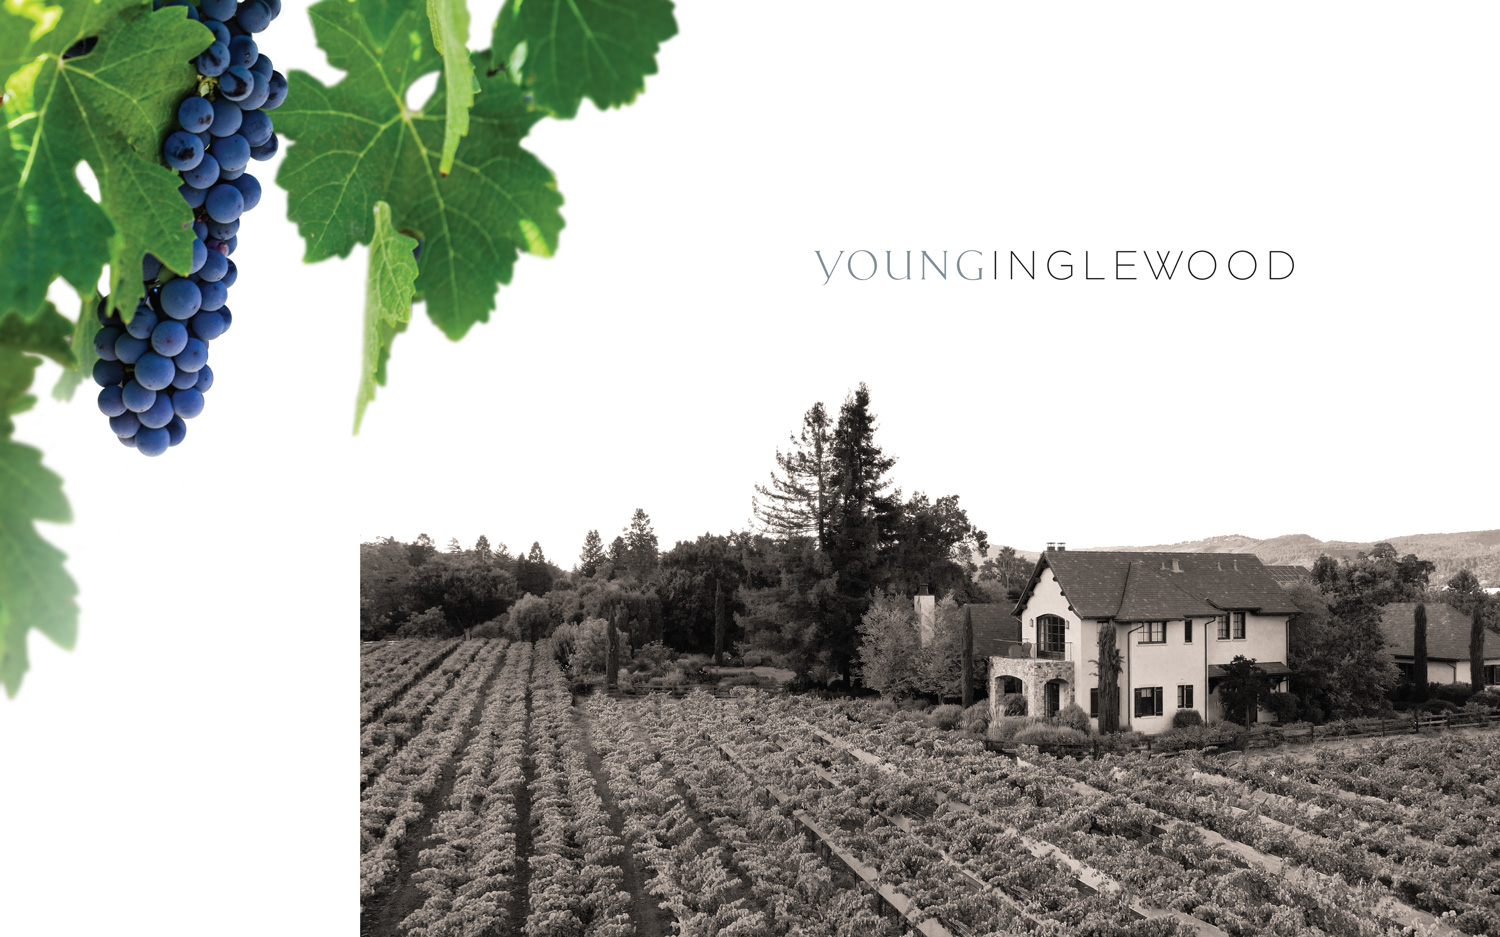
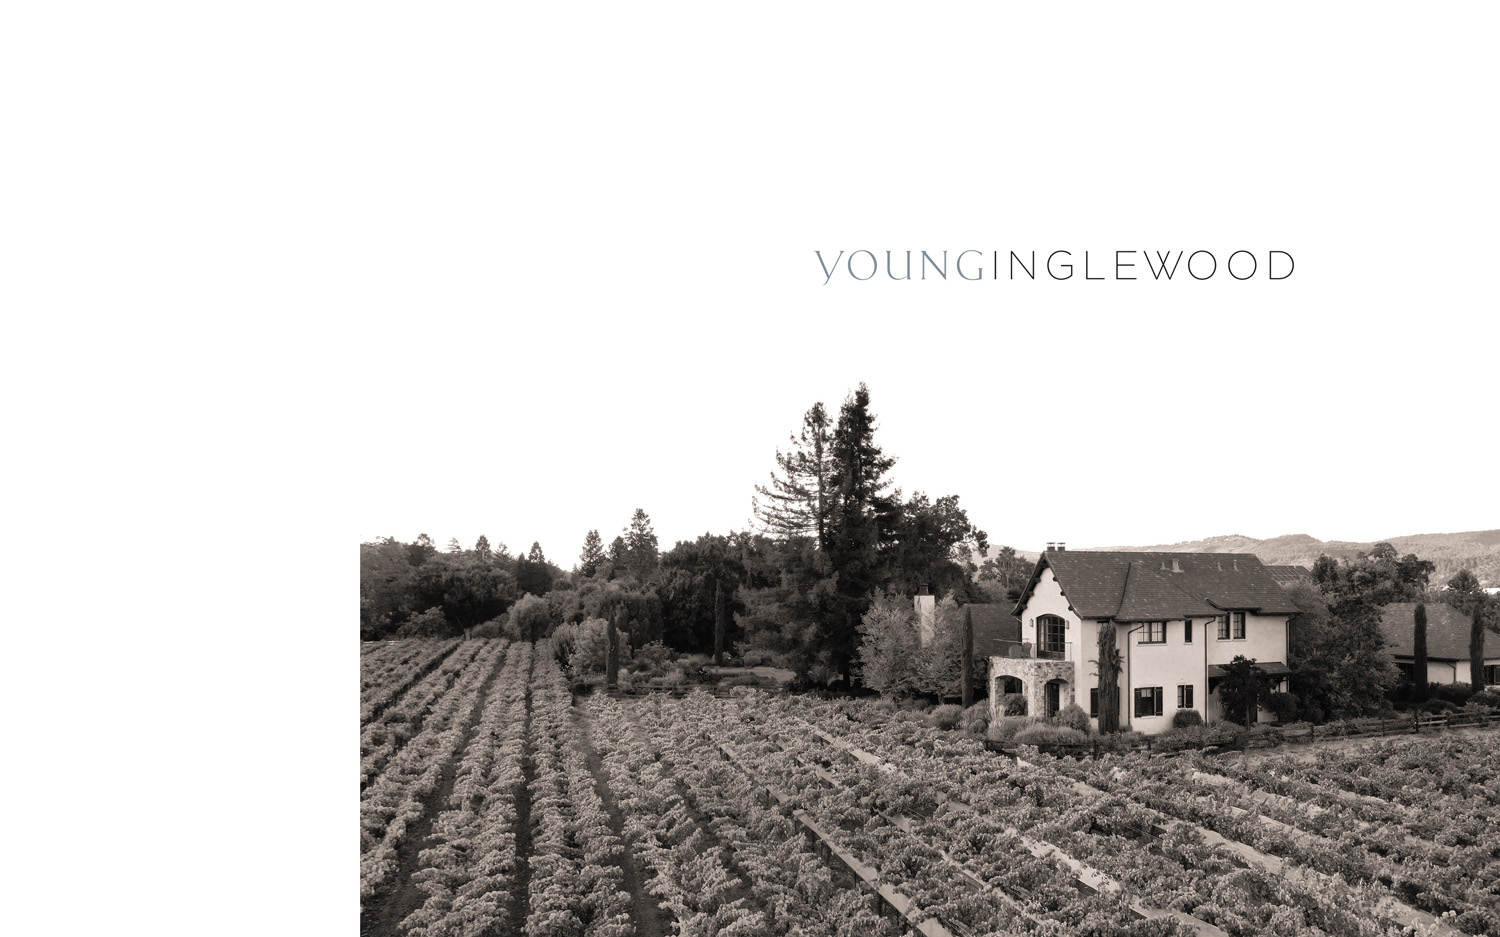
homepage solution

Changed region(s): [[0.0, 0.0, 0.46, 0.7428]]

diff --git a/components/layout.js b/components/layout.js
@@ -80,6 +80,7 @@ export default function Layout({ home, discover, wine, purchase, taste, membersh
           </div>
 
           <div className="desktop-only">
+          <div className="home-bg"></div>
             <div className="home-1">
               {/* silence */}
             </div>
@@ -112,40 +113,55 @@ export default function Layout({ home, discover, wine, purchase, taste, membersh
           <div className='navigation'>
             <nav>
               <a href="/discover" className={discover && 'active'}><span>Discover</span></a>
+
               <a href="/wine" className={wine && 'active'}><span>Wine</span></a>
+
               <a href="/collection/all/" className={purchase && 'active'} ><span>Purchase</span></a>
+
               <a href="/membership" className={membership && 'active'}><span>Membership</span></a>
+
               <a href="/taste" className={taste && 'active'}><span>Taste</span></a>
+
               <div id="c7-account"></div>
               <div className="subnavigation">
-                <div className="collections-nav">
+                <div className="collections-nav desktop-only">
                   {console.log(router.asPath)}
                   {console.log("data collections: ", collections)}
                   {collections && collections
                     .filter(collection => collection.metaData['store-menu'])
                     .map((collection, index) => {
                       return <a className={router.asPath === '/collection/' + collection.slug ? 'c7-btn active' : 'c7-btn'} key={index} href={'/collection/' + collection.slug}><span>{collection.title}</span></a>
+
                     }
                     )}
                 </div>
                 {account &&
-                  <div className="account-nav">
+                  <div className="account-nav desktop-only">
                     {/* {router.asPath != '/profile/login' ? */}
-                      <>
-                        {accountNavItems
-                          .map((navItem, index) => {
-                            return <a className={router.asPath === (navItem.url || navItem.url+'/') ? 'c7-btn active' : 'c7-btn'} key={index} href={navItem.url}><span>{navItem.title}</span></a>
-                          }
-                          )}
-                      </>
+                    <>
+                      {accountNavItems
+                        .map((navItem, index) => {
+                          return <a className={router.asPath === (navItem.url || navItem.url + '/') ? 'c7-btn active' : 'c7-btn'} key={index} href={navItem.url}><span>{navItem.title}</span></a>
 
-                      {/* :
+                        }
+                        )}
+                    </>
+
+                    {/* :
                       <></>
                     } */}
                   </div>
                 }
               </div>
             </nav>
+            <nav className="mobile-only">
+              <a href="/faq"><span>FAQ</span></a>
+              <a href="/contact"><span>Contact</span></a>
+              <a href="/profile/create-account"><span>Join</span></a>
+              <a href="/profile/account"><span>Manage your Account</span></a>
+              <a href="/credits"><span>Credits</span></a>
+            </nav>
+            <div className="social-links mobile-only"><a target="_blank" href="https://www.facebook.com/younginglewood"><svg viewBox="0 0 24 24" aria-hidden="true" focusable="false" fill="currentColor" xmlns="http://www.w3.org/2000/svg" className="StyledIconBase-ea9ulj-0 bsimgx"><path d="M13.397 20.997v-8.196h2.765l.411-3.209h-3.176V7.548c0-.926.258-1.56 1.587-1.56h1.684V3.127A22.336 22.336 0 0 0 14.201 3c-2.444 0-4.122 1.492-4.122 4.231v2.355H7.332v3.209h2.753v8.202h3.312z"></path></svg></a><a target="_blank" href="https://www.instagram.com/younginglewood"><svg viewBox="0 0 24 24" aria-hidden="true" focusable="false" fill="currentColor" xmlns="http://www.w3.org/2000/svg" className="StyledIconBase-ea9ulj-0 bsimgx"><path d="M11.999 7.377a4.623 4.623 0 1 0 0 9.248 4.623 4.623 0 0 0 0-9.248zm0 7.627a3.004 3.004 0 1 1 0-6.008 3.004 3.004 0 0 1 0 6.008z"></path><circle cx="16.806" cy="7.207" r="1.078"></circle><path d="M20.533 6.111A4.605 4.605 0 0 0 17.9 3.479a6.606 6.606 0 0 0-2.186-.42c-.963-.042-1.268-.054-3.71-.054s-2.755 0-3.71.054a6.554 6.554 0 0 0-2.184.42 4.6 4.6 0 0 0-2.633 2.632 6.585 6.585 0 0 0-.419 2.186c-.043.962-.056 1.267-.056 3.71 0 2.442 0 2.753.056 3.71.015.748.156 1.486.419 2.187a4.61 4.61 0 0 0 2.634 2.632 6.584 6.584 0 0 0 2.185.45c.963.042 1.268.055 3.71.055s2.755 0 3.71-.055a6.615 6.615 0 0 0 2.186-.419 4.613 4.613 0 0 0 2.633-2.633c.263-.7.404-1.438.419-2.186.043-.962.056-1.267.056-3.71s0-2.753-.056-3.71a6.581 6.581 0 0 0-.421-2.217zm-1.218 9.532a5.043 5.043 0 0 1-.311 1.688 2.987 2.987 0 0 1-1.712 1.711 4.985 4.985 0 0 1-1.67.311c-.95.044-1.218.055-3.654.055-2.438 0-2.687 0-3.655-.055a4.96 4.96 0 0 1-1.669-.311 2.985 2.985 0 0 1-1.719-1.711 5.08 5.08 0 0 1-.311-1.669c-.043-.95-.053-1.218-.053-3.654 0-2.437 0-2.686.053-3.655a5.038 5.038 0 0 1 .311-1.687c.305-.789.93-1.41 1.719-1.712a5.01 5.01 0 0 1 1.669-.311c.951-.043 1.218-.055 3.655-.055s2.687 0 3.654.055a4.96 4.96 0 0 1 1.67.311 2.991 2.991 0 0 1 1.712 1.712 5.08 5.08 0 0 1 .311 1.669c.043.951.054 1.218.054 3.655 0 2.436 0 2.698-.043 3.654h-.011z"></path></svg></a><a target="_blank" href="https://twitter.com/YIVWine"><svg viewBox="0 0 24 24" aria-hidden="true" focusable="false" fill="currentColor" xmlns="http://www.w3.org/2000/svg" className="StyledIconBase-ea9ulj-0 bsimgx"><path d="M19.633 7.997c.013.175.013.349.013.523 0 5.325-4.053 11.461-11.46 11.461-2.282 0-4.402-.661-6.186-1.809.324.037.636.05.973.05a8.07 8.07 0 0 0 5.001-1.721 4.036 4.036 0 0 1-3.767-2.793c.249.037.499.062.761.062.361 0 .724-.05 1.061-.137a4.027 4.027 0 0 1-3.23-3.953v-.05c.537.299 1.16.486 1.82.511a4.022 4.022 0 0 1-1.796-3.354c0-.748.199-1.434.548-2.032a11.457 11.457 0 0 0 8.306 4.215c-.062-.3-.1-.611-.1-.923a4.026 4.026 0 0 1 4.028-4.028c1.16 0 2.207.486 2.943 1.272a7.957 7.957 0 0 0 2.556-.973 4.02 4.02 0 0 1-1.771 2.22 8.073 8.073 0 0 0 2.319-.624 8.645 8.645 0 0 1-2.019 2.083z"></path></svg></a></div>
           </div>
           <div id="c7-cart"></div>
         </div>
@@ -165,10 +181,15 @@ export default function Layout({ home, discover, wine, purchase, taste, membersh
           <div className='navigation'>
             <nav>
               <a href="/faq" className={faq && 'active'}><span>FAQ</span></a>
+
               <a href="/contact" className={contact && 'active'}><span>Contact</span></a>
+
               <a href="/profile/create-account" className={join && 'active'}><span>Join</span></a>
+
               <a href="/profile/account" className={account && 'active'}><span>Manage your Account</span></a>
+
               <a href="/credits" className={credits && 'active'}><span>Credits</span></a>
+
             </nav>
           </div>
 

diff --git a/styles/globals.css b/styles/globals.css
@@ -141,6 +141,20 @@ img {
     position: absolute;
     opacity: 0;
   }
+  .home-bg {
+    background-image: url(/images/home-bg.png);
+    background-size: cover;
+    background-repeat: no-repeat;
+    aspect-ratio: 2/1;
+    width: 47rem;
+    position: absolute;
+    left: 0;
+    top: 0;
+    z-index: 3;
+    /* transform: translateX(-7rem); */
+    transform: translateX(-12rem);
+    display: block;
+  }
 
   .home-1 {
     background-image: url(/images/home-1.jpg);
@@ -324,7 +338,7 @@ img {
 
 .c7-account-block__actions button.c7-link,
 .c7-form--coupon-code-container .c7-link  {
-  margin: 0 0 1rem;
+  margin: 1rem 0 1rem;
 }
 
 .navigation nav a span,
@@ -768,7 +782,7 @@ h2 {
 
 @media (max-width: 768px) {
   .desktop-only {
-    display: none;
+    display: none !important;
   }
 
   header {
@@ -872,9 +886,14 @@ h2 {
   }
 
   main {
-    margin-top: 2rem;
+    margin-top: 4rem;
   }
 
+  .navigation nav #c7-account {
+    border-bottom: 2px solid #dedede;
+    width: 75%;
+    margin: auto;
+  }
 
   .contact .copy>h2 {
     display: none;
@@ -901,7 +920,7 @@ h2 {
 
 @media (min-width: 769px) {
   .mobile-only {
-    display: none;
+    display: none !important;
   }
 
   section h2 {
@@ -1835,19 +1854,8 @@ button.c7-link {
     width: auto;
   }
 
-  .c7-form select,
-  .c7-order-item select {
-    height: auto;
-    line-height: 1.1;
-    padding: .25rem;
-    padding-right: 30px;
-    width: 100%;
-    border-radius: 0;
-    background-size: 12px;
-  }
-
   .c7-product__add-to-cart__form button {
-    padding: .32rem !important;
+    padding: .125rem !important;
   }
 
   .c7-pagination {
@@ -1858,6 +1866,21 @@ button.c7-link {
     padding-top: 2rem;
     margin-bottom: 2.25rem;
   }
+}
+
+.c7-form select,
+.c7-order-item select {
+  height: auto;
+  line-height: 1.1;
+  padding: .25rem;
+  padding-right: 30px;
+  width: 100%;
+  min-width: 3rem;
+  border-radius: 0;
+  background-size: 12px;
+}
+select + .c7-form__error {
+  display: none;
 }
 
 .c7-product__allocation__title {
@@ -2263,6 +2286,8 @@ section .c7-account-details__payment .c7-account-details__header .c7-btn {
   .c7-account-details__payment {
     width: 50%;
   }
+
+
 }
 
 .c7-account-details__delete-account {
@@ -2327,7 +2352,27 @@ section .c7-account-details__payment .c7-account-details__header .c7-btn {
     box-shadow: none;
   }
 
+  .c7-product-collection .c7-product__title {
+    margin-bottom: 2rem; 
+  }
+  .c7-product-collection .c7-product__subtitle {
+    margin-bottom: 1rem; 
+  }
+  .c7-product__add-to-cart__form__quantity--select + .c7-btn {
+    padding: .33rem;
+  }
+  .c7-account-dashboard__block__header .c7-btn {
+    padding-left: 0;
+  }
+
+  .c7-account-club__shipment .c7-order-items {
+    padding: 1rem 0;
+  }
+
 }
+
+
+
 
 #c7-content .c7-account__menu,
 #c7-content .c7-account__header {
@@ -2338,4 +2383,8 @@ a:not([disabled]):focus,
 a:not([disabled]):hover
  {
   text-decoration: none;
+}
+
+.c7-message svg + a {
+  font-size: .65rem;
 }
